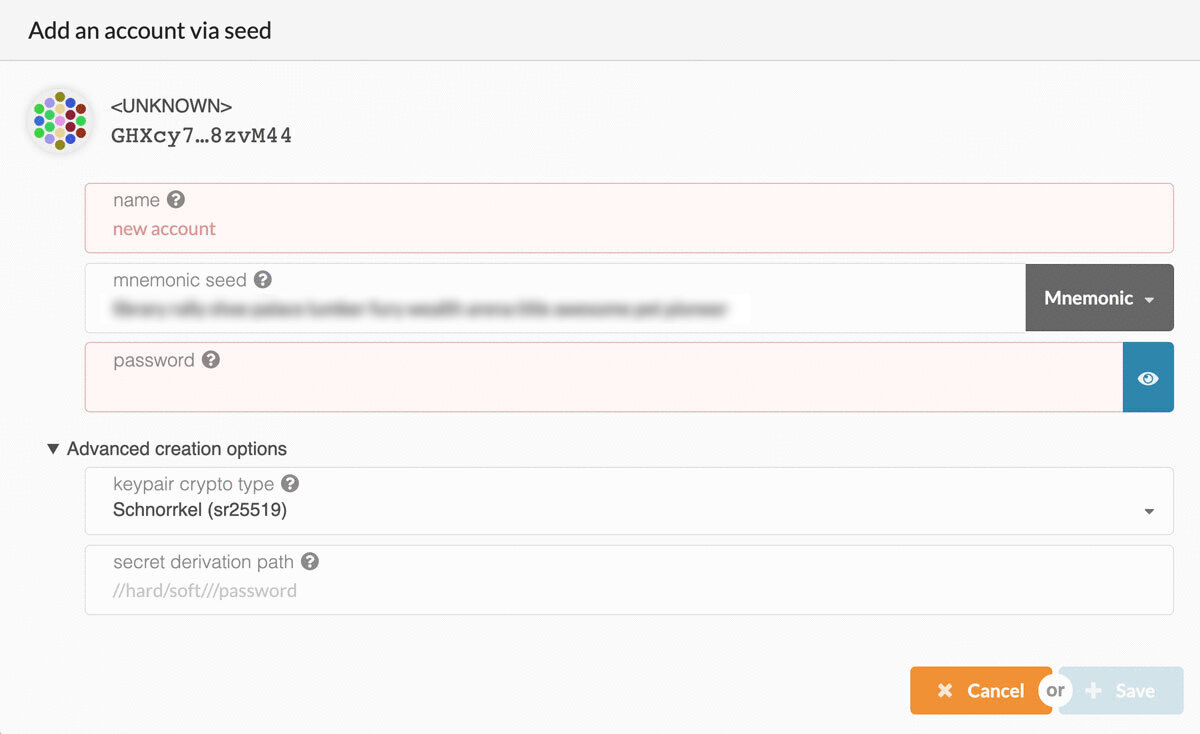
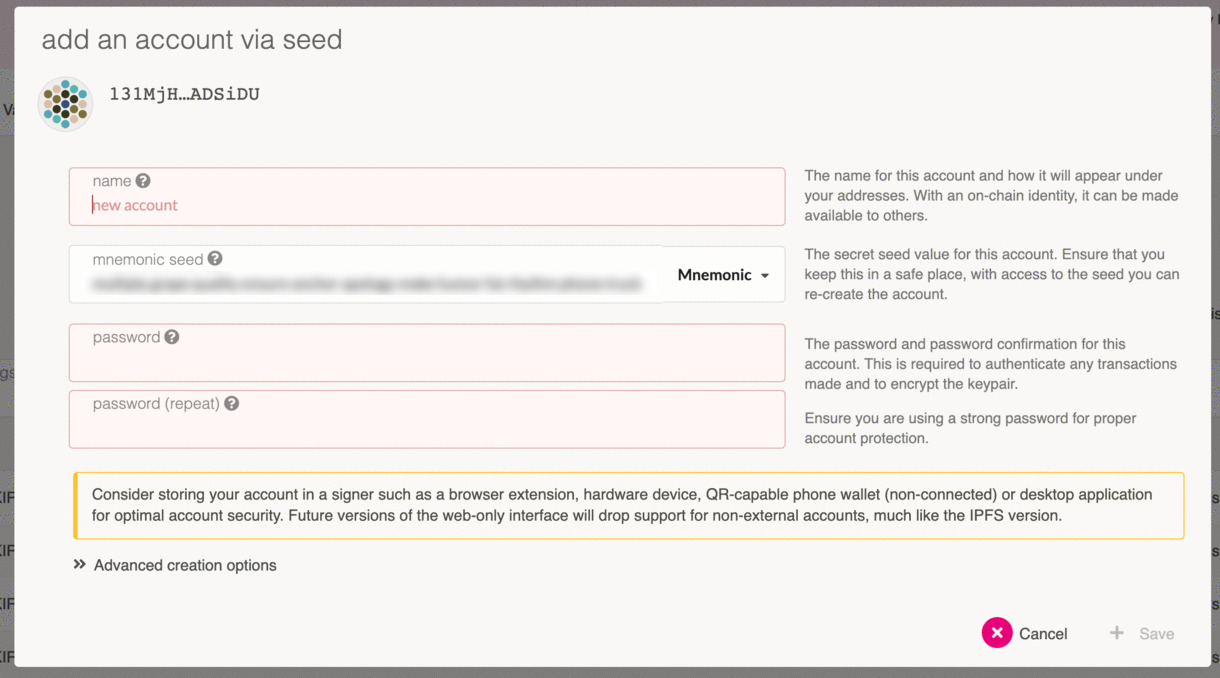
Deploy website
Deploy website version based on 0fc32bda8f6e6d2390e187184aee616f3d1b00ad

diff --git a/docs/en/learn-account-generation.html b/docs/en/learn-account-generation.html
@@ -133,16 +133,29 @@ one running iOS or Android or other specific purposes. It is not recommended for
 <a href="https://github.com/paritytech/substrate/tree/master/bin/utils/subkey">here</a>.</p>
 <p><img src="/docs/assets/accounts/subkey_01.jpg" alt="subkey-01"></p>
 <h2><a class="anchor" aria-hidden="true" id="polkadotjs"></a><a href="#polkadotjs" aria-hidden="true" class="hash-link"><svg class="hash-link-icon" aria-hidden="true" height="16" version="1.1" viewBox="0 0 16 16" width="16"><path fill-rule="evenodd" d="M4 9h1v1H4c-1.5 0-3-1.69-3-3.5S2.55 3 4 3h4c1.45 0 3 1.69 3 3.5 0 1.41-.91 2.72-2 3.25V8.59c.58-.45 1-1.27 1-2.09C10 5.22 8.98 4 8 4H4c-.98 0-2 1.22-2 2.5S3 9 4 9zm9-3h-1v1h1c1 0 2 1.22 2 2.5S13.98 12 13 12H9c-.98 0-2-1.22-2-2.5 0-.83.42-1.64 1-2.09V6.25c-1.09.53-2 1.84-2 3.25C6 11.31 7.55 13 9 13h4c1.45 0 3-1.69 3-3.5S14.5 6 13 6z"></path></svg></a>Polkadot.js</h2>
-<p>Using the polkadot.js user interface without the plugin is not recommended. It is the least secure
+<blockquote>
+<p>Please note! If you use Polkadot.js to create your account and clear your cookies in your browser,
+your account will be lost forever if you do not <a href="learn-account-restore">back it up</a>. Make sure you
+store your seed phrase in a safe place, or download the account's JSON file if using the
+PolkadotJS browser extension. Learn more about account backup and restoration
+<a href="learn-account-restore">here</a>.</p>
+</blockquote>
+<p>Using the Polkadot.js user interface without the plugin is not recommended. It is the least secure
 way of generating an account. It should only be used if all of the other methods are not feasible in
 your situation.</p>
-<p><img src="/docs/assets/accounts/polkadot_js_01.jpg" alt="pjs-01"></p>
 <h3><a class="anchor" aria-hidden="true" id="go-to-polkadot-apps"></a><a href="#go-to-polkadot-apps" aria-hidden="true" class="hash-link"><svg class="hash-link-icon" aria-hidden="true" height="16" version="1.1" viewBox="0 0 16 16" width="16"><path fill-rule="evenodd" d="M4 9h1v1H4c-1.5 0-3-1.69-3-3.5S2.55 3 4 3h4c1.45 0 3 1.69 3 3.5 0 1.41-.91 2.72-2 3.25V8.59c.58-.45 1-1.27 1-2.09C10 5.22 8.98 4 8 4H4c-.98 0-2 1.22-2 2.5S3 9 4 9zm9-3h-1v1h1c1 0 2 1.22 2 2.5S13.98 12 13 12H9c-.98 0-2-1.22-2-2.5 0-.83.42-1.64 1-2.09V6.25c-1.09.53-2 1.84-2 3.25C6 11.31 7.55 13 9 13h4c1.45 0 3-1.69 3-3.5S14.5 6 13 6z"></path></svg></a>Go to Polkadot Apps</h3>
-<p>Navigate to <a href="https://polkadot.js.org/apps">Polkadot Apps</a> and click on the &quot;Accounts&quot; tab. It is
-located in the sidebar on the left side of your screen.</p>
+<p>Navigate to <a href="https://polkadot.js.org/apps">Polkadot Apps</a> and click on &quot;Accounts&quot; underneath the
+Accounts tab. It is located in the navigation bar on the top of your screen.</p>
+<p><img src="/docs/assets/accounts/polkadot_js_01.png" alt="pjs-01"></p>
+<blockquote>
+<p>Note: For these screenshots, I am currently connected to the Polkadot network. To create an
+account on a different network, you'll need to click on the network selection in the top left
+corner of the navigation menu. A pop-up sidebar will appear listing live, testing, and custom node
+to choose from. Do remember to hit the &quot;Switch&quot; button when you want to switch your network.</p>
+</blockquote>
 <h3><a class="anchor" aria-hidden="true" id="start-account-generation"></a><a href="#start-account-generation" aria-hidden="true" class="hash-link"><svg class="hash-link-icon" aria-hidden="true" height="16" version="1.1" viewBox="0 0 16 16" width="16"><path fill-rule="evenodd" d="M4 9h1v1H4c-1.5 0-3-1.69-3-3.5S2.55 3 4 3h4c1.45 0 3 1.69 3 3.5 0 1.41-.91 2.72-2 3.25V8.59c.58-.45 1-1.27 1-2.09C10 5.22 8.98 4 8 4H4c-.98 0-2 1.22-2 2.5S3 9 4 9zm9-3h-1v1h1c1 0 2 1.22 2 2.5S13.98 12 13 12H9c-.98 0-2-1.22-2-2.5 0-.83.42-1.64 1-2.09V6.25c-1.09.53-2 1.84-2 3.25C6 11.31 7.55 13 9 13h4c1.45 0 3-1.69 3-3.5S14.5 6 13 6z"></path></svg></a>Start Account Generation</h3>
 <p>Click on the &quot;Add Account&quot; button.</p>
-<p><img src="/docs/assets/accounts/polkadot_js_02.jpg" alt="pjs-02"></p>
+<p><img src="/docs/assets/accounts/polkadot_js_02.png" alt="pjs-02"></p>
 <p>You should see a pop-up that looks like the one here. The required text fields to complete are
 highlighted in pink.</p>
 <p><img src="/docs/assets/accounts/polkadot_js_03.jpg" alt="pjs-03"></p>
@@ -162,7 +175,7 @@ print it out and be able to re-enter it later. You should not store it in cloud 
 yourself, etc.</p>
 <p>You can use this backup file to restore your account. This backup file is not readable unless it is
 decrypted with the password.</p>
-<p><img src="/docs/assets/accounts/polkadot_js_05.jpg" alt="pjs-05"></p>
+<p><img src="/docs/assets/accounts/polkadot_js_05.png" alt="pjs-05"></p>
 <h3><a class="anchor" aria-hidden="true" id="multi-signature-accounts"></a><a href="#multi-signature-accounts" aria-hidden="true" class="hash-link"><svg class="hash-link-icon" aria-hidden="true" height="16" version="1.1" viewBox="0 0 16 16" width="16"><path fill-rule="evenodd" d="M4 9h1v1H4c-1.5 0-3-1.69-3-3.5S2.55 3 4 3h4c1.45 0 3 1.69 3 3.5 0 1.41-.91 2.72-2 3.25V8.59c.58-.45 1-1.27 1-2.09C10 5.22 8.98 4 8 4H4c-.98 0-2 1.22-2 2.5S3 9 4 9zm9-3h-1v1h1c1 0 2 1.22 2 2.5S13.98 12 13 12H9c-.98 0-2-1.22-2-2.5 0-.83.42-1.64 1-2.09V6.25c-1.09.53-2 1.84-2 3.25C6 11.31 7.55 13 9 13h4c1.45 0 3-1.69 3-3.5S14.5 6 13 6z"></path></svg></a>Multi-signature Accounts</h3>
 <p>Multi-signature accounts are accounts created from several standard accounts (or even other
 multi-sig accounts). For a full explanation, please see the
@@ -170,8 +183,7 @@ multi-sig accounts). For a full explanation, please see the
 <p>On the <a href="https://polkadot.js.org/apps/#/accounts">Accounts</a> tab, click the <code>Multisig</code> button. Enter
 the threshold and add signatories. The threshold must be less than or equal to the number of
 signatories. The threshold indicates how many members must be in agreement for an extrinsic
-submission to be successful. Click <code>Create</code> when done. We'll use the accounts Alice, Bob, and
-Charlie here.</p>
+submission to be successful. Click <code>Create</code> when done.</p>
 <p><img src="/img/accounts/create-multisig.png" alt="Multi-sig account creation"></p>
 <p>This merely calculates the multi-signature's address and adds it to your UI. The account does not
 exist yet, and is subject to the same
@@ -243,7 +255,7 @@ scanning and displaying QR codes, leaving even someone with total control of you
 computer a very small and limited scope for interacting with the Parity Signer device, which can
 continue to keep your key safe.</p>
 <p><img src="/docs/assets/accounts/ps-create-6.jpg" alt="Parity Signer Create Account 6"></p>
-</span></div></article></div><div class="docLastUpdate"><em>Last updated on 8/24/2020 by joe petrowski</em></div><div class="docs-prevnext"></div></div></div><nav class="onPageNav"><ul class="toc-headings"><li><a href="#disclaimer-key-security">DISCLAIMER: Key Security</a><ul class="toc-headings"><li><a href="#storing-your-key-safely">Storing your key safely</a></li></ul></li><li><a href="#polkadotjs-browser-plugin">Polkadot.js Browser Plugin</a><ul class="toc-headings"><li><a href="#install-the-browser-plugin">Install the Browser Plugin</a></li><li><a href="#open-accounts">Open Accounts</a></li><li><a href="#create-account">Create Account</a></li><li><a href="#name-account">Name Account</a></li><li><a href="#enter-password">Enter Password</a></li><li><a href="#review-account">Review Account</a></li><li><a href="#set-address-for-polkadot-mainnet">Set Address for Polkadot Mainnet</a></li><li><a href="#get-address">Get Address</a></li><li><a href="#copy-address">Copy Address</a></li></ul></li><li><a href="#subkey">Subkey</a></li><li><a href="#polkadotjs">Polkadot.js</a><ul class="toc-headings"><li><a href="#go-to-polkadot-apps">Go to Polkadot Apps</a></li><li><a href="#start-account-generation">Start Account Generation</a></li><li><a href="#create-and-back-up-account">Create and Back Up Account</a></li><li><a href="#multi-signature-accounts">Multi-signature Accounts</a></li></ul></li><li><a href="#parity-signer">Parity Signer</a><ul class="toc-headings"><li><a href="#create-account-1">Create Account</a></li><li><a href="#name-account-1">Name Account</a></li><li><a href="#back-up-account">Back Up Account</a></li><li><a href="#set-pin">Set PIN</a></li><li><a href="#get-address-1">Get Address</a></li><li><a href="#your-address">Your Address</a></li></ul></li></ul></nav></div><footer class="nav-footer" id="footer"><section class="sitemap"><a href="/" class="nav-home"><img src="/./img/kusama-brand-assets/Kusama_Canary_white.png" alt="Guide" width="66" height="58"/></a><div><p class="homepage-font">Kusama is an experimental <br/>community research and<br/> development network.</p><a href="https://guide.kusama.network/docs/en/kusama-index" target="_blank" class="homepage-font">Docs</a><a href="https://kusama.network/" target="_blank" class="homepage-font">Kusama Network</a><a href="https://twitter.com/kusamanetwork" target="_blank" rel="noreferrer noopener" class="homepage-font">Twitter</a></div><a href="/kusama-wiki.zip" target="_blank" rel="noreferrer noopener">Download this Guide as PDF</a></section><section class="row"><div class="copyright homepage-font">Copyright © 2020 Web3 Foundation</div><a class="item homepage-font" href="https://polkadot.network/privacy/">Privacy Policy</a><a class="item homepage-font" href="#" id="cookie-settings">Cookie Settings</a><script>
+</span></div></article></div><div class="docLastUpdate"><em>Last updated on 8/28/2020 by Kirsten Richard</em></div><div class="docs-prevnext"></div></div></div><nav class="onPageNav"><ul class="toc-headings"><li><a href="#disclaimer-key-security">DISCLAIMER: Key Security</a><ul class="toc-headings"><li><a href="#storing-your-key-safely">Storing your key safely</a></li></ul></li><li><a href="#polkadotjs-browser-plugin">Polkadot.js Browser Plugin</a><ul class="toc-headings"><li><a href="#install-the-browser-plugin">Install the Browser Plugin</a></li><li><a href="#open-accounts">Open Accounts</a></li><li><a href="#create-account">Create Account</a></li><li><a href="#name-account">Name Account</a></li><li><a href="#enter-password">Enter Password</a></li><li><a href="#review-account">Review Account</a></li><li><a href="#set-address-for-polkadot-mainnet">Set Address for Polkadot Mainnet</a></li><li><a href="#get-address">Get Address</a></li><li><a href="#copy-address">Copy Address</a></li></ul></li><li><a href="#subkey">Subkey</a></li><li><a href="#polkadotjs">Polkadot.js</a><ul class="toc-headings"><li><a href="#go-to-polkadot-apps">Go to Polkadot Apps</a></li><li><a href="#start-account-generation">Start Account Generation</a></li><li><a href="#create-and-back-up-account">Create and Back Up Account</a></li><li><a href="#multi-signature-accounts">Multi-signature Accounts</a></li></ul></li><li><a href="#parity-signer">Parity Signer</a><ul class="toc-headings"><li><a href="#create-account-1">Create Account</a></li><li><a href="#name-account-1">Name Account</a></li><li><a href="#back-up-account">Back Up Account</a></li><li><a href="#set-pin">Set PIN</a></li><li><a href="#get-address-1">Get Address</a></li><li><a href="#your-address">Your Address</a></li></ul></li></ul></nav></div><footer class="nav-footer" id="footer"><section class="sitemap"><a href="/" class="nav-home"><img src="/./img/kusama-brand-assets/Kusama_Canary_white.png" alt="Guide" width="66" height="58"/></a><div><p class="homepage-font">Kusama is an experimental <br/>community research and<br/> development network.</p><a href="https://guide.kusama.network/docs/en/kusama-index" target="_blank" class="homepage-font">Docs</a><a href="https://kusama.network/" target="_blank" class="homepage-font">Kusama Network</a><a href="https://twitter.com/kusamanetwork" target="_blank" rel="noreferrer noopener" class="homepage-font">Twitter</a></div><a href="/kusama-wiki.zip" target="_blank" rel="noreferrer noopener">Download this Guide as PDF</a></section><section class="row"><div class="copyright homepage-font">Copyright © 2020 Web3 Foundation</div><a class="item homepage-font" href="https://polkadot.network/privacy/">Privacy Policy</a><a class="item homepage-font" href="#" id="cookie-settings">Cookie Settings</a><script>
               var cookieSettings = document.getElementById('cookie-settings');
               cookieSettings.onclick = function() {
                 return klaro.show();

diff --git a/docs/en/learn-account-generation/index.html b/docs/en/learn-account-generation/index.html
@@ -133,16 +133,29 @@ one running iOS or Android or other specific purposes. It is not recommended for
 <a href="https://github.com/paritytech/substrate/tree/master/bin/utils/subkey">here</a>.</p>
 <p><img src="/docs/assets/accounts/subkey_01.jpg" alt="subkey-01"></p>
 <h2><a class="anchor" aria-hidden="true" id="polkadotjs"></a><a href="#polkadotjs" aria-hidden="true" class="hash-link"><svg class="hash-link-icon" aria-hidden="true" height="16" version="1.1" viewBox="0 0 16 16" width="16"><path fill-rule="evenodd" d="M4 9h1v1H4c-1.5 0-3-1.69-3-3.5S2.55 3 4 3h4c1.45 0 3 1.69 3 3.5 0 1.41-.91 2.72-2 3.25V8.59c.58-.45 1-1.27 1-2.09C10 5.22 8.98 4 8 4H4c-.98 0-2 1.22-2 2.5S3 9 4 9zm9-3h-1v1h1c1 0 2 1.22 2 2.5S13.98 12 13 12H9c-.98 0-2-1.22-2-2.5 0-.83.42-1.64 1-2.09V6.25c-1.09.53-2 1.84-2 3.25C6 11.31 7.55 13 9 13h4c1.45 0 3-1.69 3-3.5S14.5 6 13 6z"></path></svg></a>Polkadot.js</h2>
-<p>Using the polkadot.js user interface without the plugin is not recommended. It is the least secure
+<blockquote>
+<p>Please note! If you use Polkadot.js to create your account and clear your cookies in your browser,
+your account will be lost forever if you do not <a href="learn-account-restore">back it up</a>. Make sure you
+store your seed phrase in a safe place, or download the account's JSON file if using the
+PolkadotJS browser extension. Learn more about account backup and restoration
+<a href="learn-account-restore">here</a>.</p>
+</blockquote>
+<p>Using the Polkadot.js user interface without the plugin is not recommended. It is the least secure
 way of generating an account. It should only be used if all of the other methods are not feasible in
 your situation.</p>
-<p><img src="/docs/assets/accounts/polkadot_js_01.jpg" alt="pjs-01"></p>
 <h3><a class="anchor" aria-hidden="true" id="go-to-polkadot-apps"></a><a href="#go-to-polkadot-apps" aria-hidden="true" class="hash-link"><svg class="hash-link-icon" aria-hidden="true" height="16" version="1.1" viewBox="0 0 16 16" width="16"><path fill-rule="evenodd" d="M4 9h1v1H4c-1.5 0-3-1.69-3-3.5S2.55 3 4 3h4c1.45 0 3 1.69 3 3.5 0 1.41-.91 2.72-2 3.25V8.59c.58-.45 1-1.27 1-2.09C10 5.22 8.98 4 8 4H4c-.98 0-2 1.22-2 2.5S3 9 4 9zm9-3h-1v1h1c1 0 2 1.22 2 2.5S13.98 12 13 12H9c-.98 0-2-1.22-2-2.5 0-.83.42-1.64 1-2.09V6.25c-1.09.53-2 1.84-2 3.25C6 11.31 7.55 13 9 13h4c1.45 0 3-1.69 3-3.5S14.5 6 13 6z"></path></svg></a>Go to Polkadot Apps</h3>
-<p>Navigate to <a href="https://polkadot.js.org/apps">Polkadot Apps</a> and click on the &quot;Accounts&quot; tab. It is
-located in the sidebar on the left side of your screen.</p>
+<p>Navigate to <a href="https://polkadot.js.org/apps">Polkadot Apps</a> and click on &quot;Accounts&quot; underneath the
+Accounts tab. It is located in the navigation bar on the top of your screen.</p>
+<p><img src="/docs/assets/accounts/polkadot_js_01.png" alt="pjs-01"></p>
+<blockquote>
+<p>Note: For these screenshots, I am currently connected to the Polkadot network. To create an
+account on a different network, you'll need to click on the network selection in the top left
+corner of the navigation menu. A pop-up sidebar will appear listing live, testing, and custom node
+to choose from. Do remember to hit the &quot;Switch&quot; button when you want to switch your network.</p>
+</blockquote>
 <h3><a class="anchor" aria-hidden="true" id="start-account-generation"></a><a href="#start-account-generation" aria-hidden="true" class="hash-link"><svg class="hash-link-icon" aria-hidden="true" height="16" version="1.1" viewBox="0 0 16 16" width="16"><path fill-rule="evenodd" d="M4 9h1v1H4c-1.5 0-3-1.69-3-3.5S2.55 3 4 3h4c1.45 0 3 1.69 3 3.5 0 1.41-.91 2.72-2 3.25V8.59c.58-.45 1-1.27 1-2.09C10 5.22 8.98 4 8 4H4c-.98 0-2 1.22-2 2.5S3 9 4 9zm9-3h-1v1h1c1 0 2 1.22 2 2.5S13.98 12 13 12H9c-.98 0-2-1.22-2-2.5 0-.83.42-1.64 1-2.09V6.25c-1.09.53-2 1.84-2 3.25C6 11.31 7.55 13 9 13h4c1.45 0 3-1.69 3-3.5S14.5 6 13 6z"></path></svg></a>Start Account Generation</h3>
 <p>Click on the &quot;Add Account&quot; button.</p>
-<p><img src="/docs/assets/accounts/polkadot_js_02.jpg" alt="pjs-02"></p>
+<p><img src="/docs/assets/accounts/polkadot_js_02.png" alt="pjs-02"></p>
 <p>You should see a pop-up that looks like the one here. The required text fields to complete are
 highlighted in pink.</p>
 <p><img src="/docs/assets/accounts/polkadot_js_03.jpg" alt="pjs-03"></p>
@@ -162,7 +175,7 @@ print it out and be able to re-enter it later. You should not store it in cloud 
 yourself, etc.</p>
 <p>You can use this backup file to restore your account. This backup file is not readable unless it is
 decrypted with the password.</p>
-<p><img src="/docs/assets/accounts/polkadot_js_05.jpg" alt="pjs-05"></p>
+<p><img src="/docs/assets/accounts/polkadot_js_05.png" alt="pjs-05"></p>
 <h3><a class="anchor" aria-hidden="true" id="multi-signature-accounts"></a><a href="#multi-signature-accounts" aria-hidden="true" class="hash-link"><svg class="hash-link-icon" aria-hidden="true" height="16" version="1.1" viewBox="0 0 16 16" width="16"><path fill-rule="evenodd" d="M4 9h1v1H4c-1.5 0-3-1.69-3-3.5S2.55 3 4 3h4c1.45 0 3 1.69 3 3.5 0 1.41-.91 2.72-2 3.25V8.59c.58-.45 1-1.27 1-2.09C10 5.22 8.98 4 8 4H4c-.98 0-2 1.22-2 2.5S3 9 4 9zm9-3h-1v1h1c1 0 2 1.22 2 2.5S13.98 12 13 12H9c-.98 0-2-1.22-2-2.5 0-.83.42-1.64 1-2.09V6.25c-1.09.53-2 1.84-2 3.25C6 11.31 7.55 13 9 13h4c1.45 0 3-1.69 3-3.5S14.5 6 13 6z"></path></svg></a>Multi-signature Accounts</h3>
 <p>Multi-signature accounts are accounts created from several standard accounts (or even other
 multi-sig accounts). For a full explanation, please see the
@@ -170,8 +183,7 @@ multi-sig accounts). For a full explanation, please see the
 <p>On the <a href="https://polkadot.js.org/apps/#/accounts">Accounts</a> tab, click the <code>Multisig</code> button. Enter
 the threshold and add signatories. The threshold must be less than or equal to the number of
 signatories. The threshold indicates how many members must be in agreement for an extrinsic
-submission to be successful. Click <code>Create</code> when done. We'll use the accounts Alice, Bob, and
-Charlie here.</p>
+submission to be successful. Click <code>Create</code> when done.</p>
 <p><img src="/img/accounts/create-multisig.png" alt="Multi-sig account creation"></p>
 <p>This merely calculates the multi-signature's address and adds it to your UI. The account does not
 exist yet, and is subject to the same
@@ -243,7 +255,7 @@ scanning and displaying QR codes, leaving even someone with total control of you
 computer a very small and limited scope for interacting with the Parity Signer device, which can
 continue to keep your key safe.</p>
 <p><img src="/docs/assets/accounts/ps-create-6.jpg" alt="Parity Signer Create Account 6"></p>
-</span></div></article></div><div class="docLastUpdate"><em>Last updated on 8/24/2020 by joe petrowski</em></div><div class="docs-prevnext"></div></div></div><nav class="onPageNav"><ul class="toc-headings"><li><a href="#disclaimer-key-security">DISCLAIMER: Key Security</a><ul class="toc-headings"><li><a href="#storing-your-key-safely">Storing your key safely</a></li></ul></li><li><a href="#polkadotjs-browser-plugin">Polkadot.js Browser Plugin</a><ul class="toc-headings"><li><a href="#install-the-browser-plugin">Install the Browser Plugin</a></li><li><a href="#open-accounts">Open Accounts</a></li><li><a href="#create-account">Create Account</a></li><li><a href="#name-account">Name Account</a></li><li><a href="#enter-password">Enter Password</a></li><li><a href="#review-account">Review Account</a></li><li><a href="#set-address-for-polkadot-mainnet">Set Address for Polkadot Mainnet</a></li><li><a href="#get-address">Get Address</a></li><li><a href="#copy-address">Copy Address</a></li></ul></li><li><a href="#subkey">Subkey</a></li><li><a href="#polkadotjs">Polkadot.js</a><ul class="toc-headings"><li><a href="#go-to-polkadot-apps">Go to Polkadot Apps</a></li><li><a href="#start-account-generation">Start Account Generation</a></li><li><a href="#create-and-back-up-account">Create and Back Up Account</a></li><li><a href="#multi-signature-accounts">Multi-signature Accounts</a></li></ul></li><li><a href="#parity-signer">Parity Signer</a><ul class="toc-headings"><li><a href="#create-account-1">Create Account</a></li><li><a href="#name-account-1">Name Account</a></li><li><a href="#back-up-account">Back Up Account</a></li><li><a href="#set-pin">Set PIN</a></li><li><a href="#get-address-1">Get Address</a></li><li><a href="#your-address">Your Address</a></li></ul></li></ul></nav></div><footer class="nav-footer" id="footer"><section class="sitemap"><a href="/" class="nav-home"><img src="/./img/kusama-brand-assets/Kusama_Canary_white.png" alt="Guide" width="66" height="58"/></a><div><p class="homepage-font">Kusama is an experimental <br/>community research and<br/> development network.</p><a href="https://guide.kusama.network/docs/en/kusama-index" target="_blank" class="homepage-font">Docs</a><a href="https://kusama.network/" target="_blank" class="homepage-font">Kusama Network</a><a href="https://twitter.com/kusamanetwork" target="_blank" rel="noreferrer noopener" class="homepage-font">Twitter</a></div><a href="/kusama-wiki.zip" target="_blank" rel="noreferrer noopener">Download this Guide as PDF</a></section><section class="row"><div class="copyright homepage-font">Copyright © 2020 Web3 Foundation</div><a class="item homepage-font" href="https://polkadot.network/privacy/">Privacy Policy</a><a class="item homepage-font" href="#" id="cookie-settings">Cookie Settings</a><script>
+</span></div></article></div><div class="docLastUpdate"><em>Last updated on 8/28/2020 by Kirsten Richard</em></div><div class="docs-prevnext"></div></div></div><nav class="onPageNav"><ul class="toc-headings"><li><a href="#disclaimer-key-security">DISCLAIMER: Key Security</a><ul class="toc-headings"><li><a href="#storing-your-key-safely">Storing your key safely</a></li></ul></li><li><a href="#polkadotjs-browser-plugin">Polkadot.js Browser Plugin</a><ul class="toc-headings"><li><a href="#install-the-browser-plugin">Install the Browser Plugin</a></li><li><a href="#open-accounts">Open Accounts</a></li><li><a href="#create-account">Create Account</a></li><li><a href="#name-account">Name Account</a></li><li><a href="#enter-password">Enter Password</a></li><li><a href="#review-account">Review Account</a></li><li><a href="#set-address-for-polkadot-mainnet">Set Address for Polkadot Mainnet</a></li><li><a href="#get-address">Get Address</a></li><li><a href="#copy-address">Copy Address</a></li></ul></li><li><a href="#subkey">Subkey</a></li><li><a href="#polkadotjs">Polkadot.js</a><ul class="toc-headings"><li><a href="#go-to-polkadot-apps">Go to Polkadot Apps</a></li><li><a href="#start-account-generation">Start Account Generation</a></li><li><a href="#create-and-back-up-account">Create and Back Up Account</a></li><li><a href="#multi-signature-accounts">Multi-signature Accounts</a></li></ul></li><li><a href="#parity-signer">Parity Signer</a><ul class="toc-headings"><li><a href="#create-account-1">Create Account</a></li><li><a href="#name-account-1">Name Account</a></li><li><a href="#back-up-account">Back Up Account</a></li><li><a href="#set-pin">Set PIN</a></li><li><a href="#get-address-1">Get Address</a></li><li><a href="#your-address">Your Address</a></li></ul></li></ul></nav></div><footer class="nav-footer" id="footer"><section class="sitemap"><a href="/" class="nav-home"><img src="/./img/kusama-brand-assets/Kusama_Canary_white.png" alt="Guide" width="66" height="58"/></a><div><p class="homepage-font">Kusama is an experimental <br/>community research and<br/> development network.</p><a href="https://guide.kusama.network/docs/en/kusama-index" target="_blank" class="homepage-font">Docs</a><a href="https://kusama.network/" target="_blank" class="homepage-font">Kusama Network</a><a href="https://twitter.com/kusamanetwork" target="_blank" rel="noreferrer noopener" class="homepage-font">Twitter</a></div><a href="/kusama-wiki.zip" target="_blank" rel="noreferrer noopener">Download this Guide as PDF</a></section><section class="row"><div class="copyright homepage-font">Copyright © 2020 Web3 Foundation</div><a class="item homepage-font" href="https://polkadot.network/privacy/">Privacy Policy</a><a class="item homepage-font" href="#" id="cookie-settings">Cookie Settings</a><script>
               var cookieSettings = document.getElementById('cookie-settings');
               cookieSettings.onclick = function() {
                 return klaro.show();
